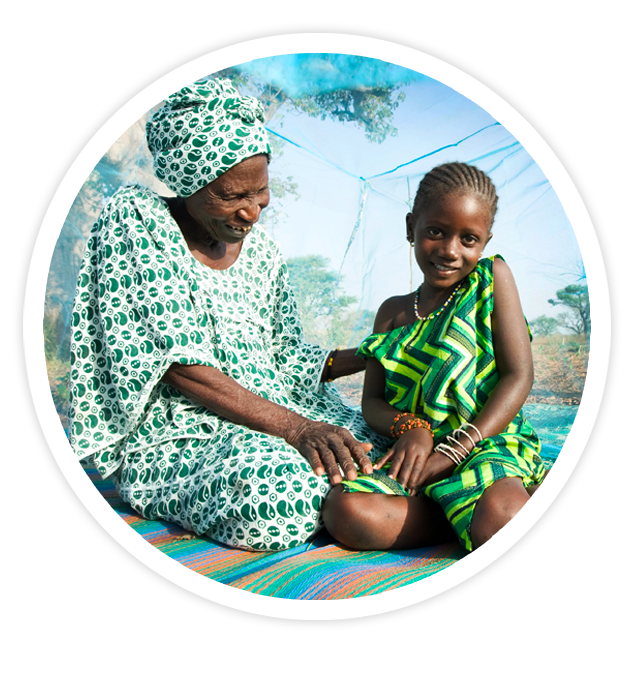
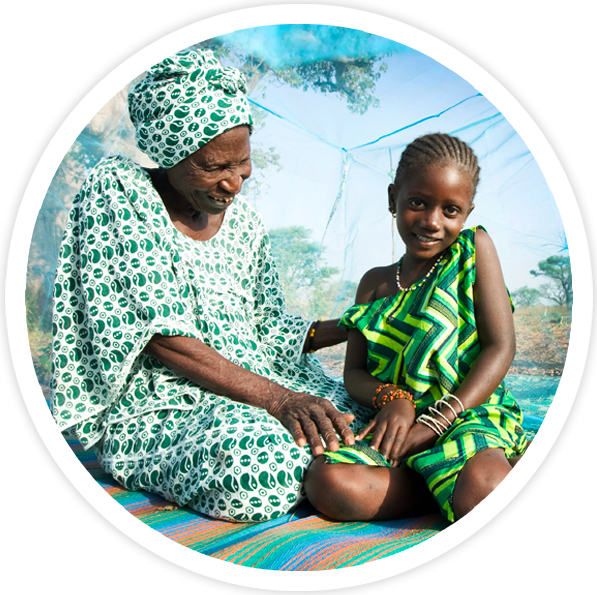
add last section,change image

diff --git a/index.html b/index.html
@@ -13,10 +13,12 @@
       rel="stylesheet"
     />
   </head>
-  <body class="h-fit w-[100vw] font-['Fira_Sans'] overflow-x-hidden">
-    <div class="flex py-7 ml-24 items-center">
+  <body class="w-[100vw] font-['Fira_Sans'] overflow-x-hidden pb-[10vh]">
+    <div class="flex py-7 lg:px-16 xl:px-24 items-center">
       <img class="mr-7" src="/assets/Logo.png" alt="Logo" />
-      <div class="text-[#707070] text-2xl font-[Montserrat] w-[15%] border-l pl-7 border-[#707070] mr-10">
+      <div
+        class="text-[#707070] text-2xl font-[Montserrat] w-[35%] xl:w-[20%] 2xl:w-[15%] border-l pl-7 border-[#707070] mr-10"
+      >
         The Alliance for Malaria Prevention
       </div>
       <div>
@@ -24,26 +26,54 @@
         <a class="text-[#707070] text-base font-medium" href="/">Contact</a>
       </div>
     </div>
-    <div class="w-[100vw] h-full relative overflow-x-hidden">
-      <div class="h-[1046px] w-[150vw] relative left-[-25vw] bg-[#02A3D8] rounded-[50%]"></div>
-      <div class="absolute z-10 mx-24 flex justify-between top-[-5%]">
+    <div class="h-[1046px] w-[150vw] relative left-[-25vw] bg-[#02A3D8] rounded-[50%]"></div>
+    <div class="w-full absolute lg:px-16 xl:px-24 z-10 top-[25%] xl:top-[20%] 2xl:top-[10%]">
+      <div class="flex justify-between mb-10">
         <div class="w-1/2 self-center">
-          <div class="text-white text-7xl font-bold mb-10">ITN Quantification</div>
-          <p class="text-white text-2xl">
+          <div class="text-white lg:text-5xl xl:text-7xl font-bold mb-10">ITN Quantification</div>
+          <p class="text-white lg:text-lg xl:text-2xl">
             Ut cillum non elit sint officia commodo consectetur quis occaecat cupidatat. Sunt dolore ut esse sunt nulla
             aute quis. Qui occaecat et excepteur officia. Commodo aliqua ullamco anim anim commodo anim ea ut. Eu eu
             proident elit laborum eu incididunt dolor esse consectetur ullamco quis in laboris. Tempor proident culpa
             commodo ut.
           </p>
         </div>
-        <img src="/assets/Header_Image.png" alt="Image Header" />
+        <img class="lg:h-[30%] w-[40%]" src="/assets/Header_Image.png" alt="Image Header" />
       </div>
-      <div class="absolute z-10 flex ml-24 bottom-[35%]">
-        <div class="p-4 rounded-full bg-white text-[#02A3D8] mr-5 font-medium">Total Nets</div>
-        <div class="p-4 rounded-full border text-white mr-5 font-medium">ITNs Needed Over Time</div>
-        <div class="p-4 rounded-full border text-white mr-5 font-medium">ITN Access Over Time</div>
-        <div class="p-4 rounded-full border text-white mr-5 font-medium">Cost-Benefit Analysis</div>
-        <div class="p-4 rounded-full border text-white mr-5 font-medium">Quantifier for Continuous Distribution</div>
+      <div class="flex mb-10">
+        <div class="py-4 px-5 rounded-full bg-white text-[#02A3D8] mr-5 font-medium">Total Nets</div>
+        <div class="py-4 px-5 rounded-full border text-white mr-5 font-medium">ITNs Needed Over Time</div>
+        <div class="py-4 px-5 rounded-full border text-white mr-5 font-medium">ITN Access Over Time</div>
+        <div class="py-4 px-5 rounded-full border text-white mr-5 font-medium">Cost-Benefit Analysis</div>
+        <div class="py-4 px-5 rounded-full border text-white mr-5 font-medium">
+          Quantifier for Continuous Distribution
+        </div>
+      </div>
+      <div class="bg-white border border-[#EEE] py-14 px-20 pb-40 rounded-xl w-full">
+        <div class="text-[#707070] flex mb-16">
+          <div class="w-[30%] mr-10">
+            <div>Country</div>
+            <select class="border border-[#A1A1AA] w-full py-1" name="country">
+              <option value="angola">Angola</option>
+              <option value="usa">USA</option>
+            </select>
+          </div>
+          <div>
+            <div>Lifespan (in Years)</div>
+            <div class="flex items-center">
+              <div class="mr-5 flex items-center"><input class="mr-2" type="radio" value="1" /><span>1</span></div>
+              <div class="mr-5 flex items-center"><input class="mr-2" type="radio" value="1.5" /><span>1.5</span></div>
+              <div class="mr-5 flex items-center"><input class="mr-2" type="radio" value="2" /><span>2</span></div>
+              <div class="mr-5 flex items-center"><input class="mr-2" type="radio" value="2.5" /><span>2.5</span></div>
+              <div class="mr-5 flex items-center"><input class="mr-2" type="radio" value="3" /><span>3</span></div>
+              <div class="mr-5 flex items-center"><input class="mr-2" type="radio" value="3.5" /><span>3.5</span></div>
+            </div>
+          </div>
+        </div>
+        <div class="text-4xl mb-16">
+          <strong> Angola </strong> ITN needs over three years with an <strong> lifespan of 2 years </strong>
+        </div>
+        <img src="/assets/Image_2.png" alt="Image" />
       </div>
     </div>
   </body>
